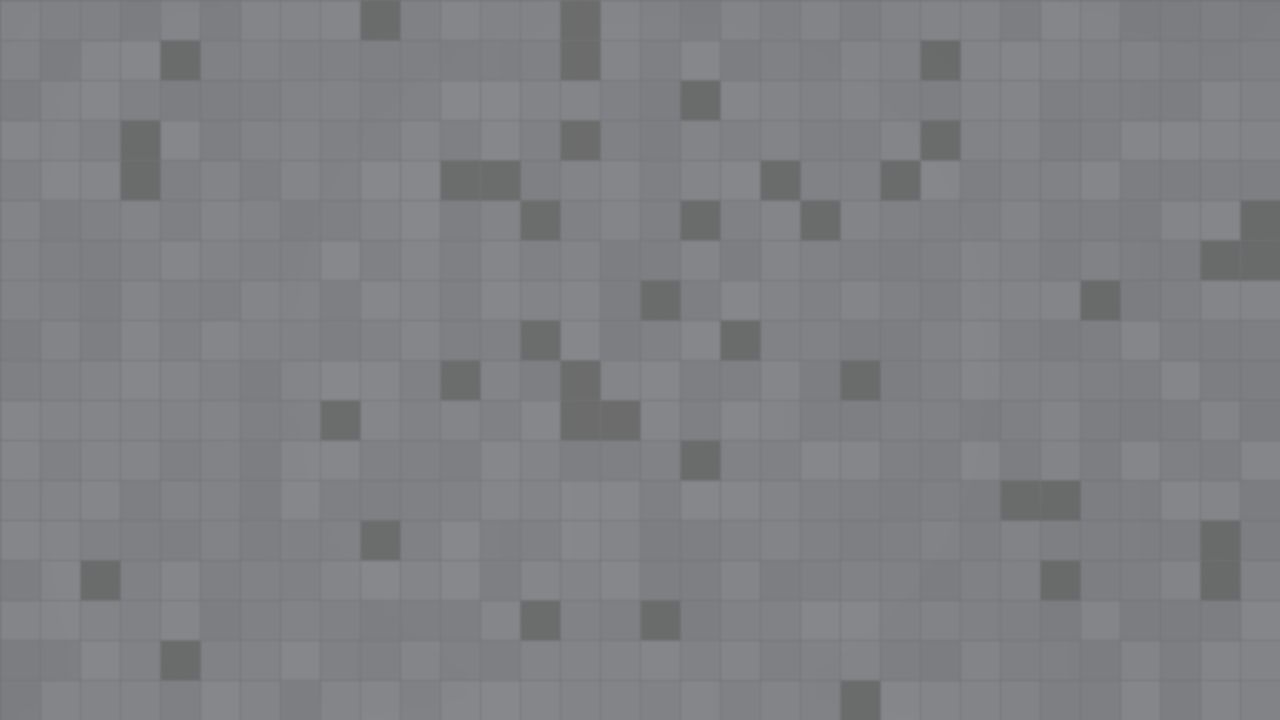
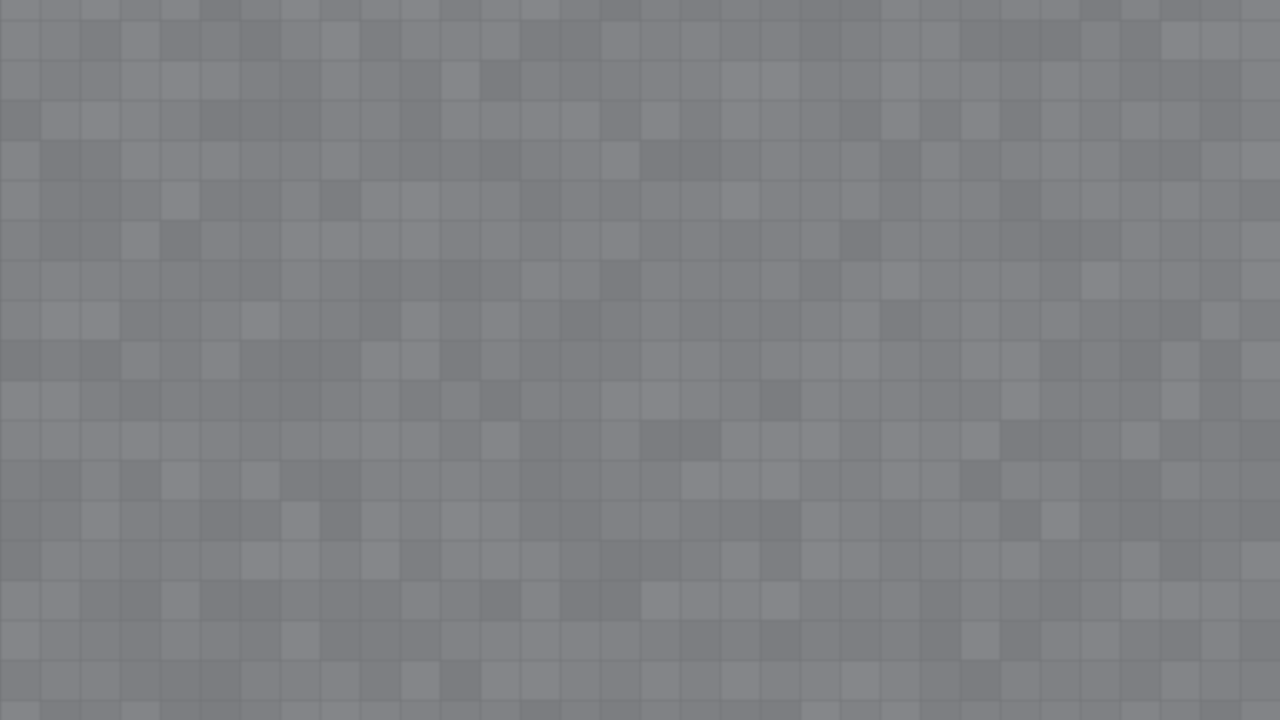
Fix classroom floor for real: v1 texture was a 1px black screen-door
8f0c993 claimed the bleed ring was repainted as linoleum with "zero near-black
pixels remain". It was not: 400,634 px (33% of table_classroom.png) were still
the original near-black void (15,11,9) in a 1-pixel lattice -- only the
even-x/even-y quarter of the ring was ever repainted.

Root cause (generator lived only in /tmp, so nothing in the repo showed it):
  - the "ensure nothing stays void-black" sweep iterated range(0,H,2)/
    range(0,W,2), leaving 3 of every 4 ring pixels untouched;
  - the per-tile tone variation used a stride-2 x loop.
Its verification sampled every 4th pixel in both axes -- the same even lattice
it had repainted -- and so reported 0 near-black pixels on an asset that was
one-third near-black. The vision model's "dark almost black" read was correct
and was overruled by aliased sampling.

Fix:
  - game/assets/generate_classroom_floor.py (new, committed): regenerates both
    classroom textures with full-coverage tiles; desk rect (160,120)-(1280,720)
    kept bit-exact; smooth +-14px wood->floor feather; CanvasModulate tint stays
    the single warmth knob.
  - verifies at FULL resolution (no subsampling) and asserts: 0 near-black ring
    pixels, 0 desk-interior pixels altered.
  - background_classroom.png regenerated from the same tile function, its grid
    phase-aligned to the table sprite for ultra-wide aspects.

Verified live (Xvfb :99, PENFIGHT_AUTOPLAY=1, 0 script errors):
[…]

diff --git a/game/assets/generate_classroom_floor.py b/game/assets/generate_classroom_floor.py
@@ -1,0 +1,179 @@
+#!/usr/bin/env python3
+"""Generate the top-down classroom floor assets for pen-fight.
+
+Outputs (both in game/assets/):
+  table_classroom.png (1440x840) — table.png with the near-black bleed ring
+      repainted as light-gray tiled linoleum, desk region preserved exactly.
+  background_classroom.png (1280x720) — matching floor for ultra-wide aspects
+      (sits BEHIND the table sprite; only visible when the window is wider than
+      the table sprite's aspect, so its tile grid is phase-aligned to the
+      table sprite's grid in viewport space).
+
+Origin geometry (measured from table.png, not guessed):
+  * table.png is 1440x840; the desk content occupies EXACTLY x160..1279,
+    y120..719 (1120x600 = the playfield). Everything else is bleed.
+  * The bleed is near-black (14,10,8) with a slight shadow ramp toward the desk.
+
+WHY THIS SCRIPT EXISTS: the first version of this repaint (2026-09-14) shipped a
+1-pixel black screen-door instead of a floor — two bugs, both invisible to the
+verification it used:
+  1. the "ensure nothing stays void-black" sweep iterated every 2nd pixel in BOTH
+     axes, so only 25% of the bleed was ever repainted, leaving a near-black
+     lattice at 3/4 of the ring's pixels;
+  2. the per-tile tone variation was applied with a stride-2 x loop.
+Both the repaint and its verification sampled on the same even lattice, so the
+check reported "0 near-black pixels" on an asset that was 33% near-black.
+
+RULES FOR ANYONE EDITING THIS:
+  * never verify a texture by sampling every Nth pixel — a 1px lattice aliases
+    perfectly against any even stride. Verify at full resolution (this script
+    does) and, for looks, use an AREA/box downscale, never point sampling.
+  * keep the desk rect exact; it is the physics playfield.
+
+Run:  /home/ubuntu/pen-fight/.asset-venv/bin/python generate_classroom_floor.py
+"""
+
+from __future__ import annotations
+
+import random
+import sys
+from pathlib import Path
+
+from PIL import Image, ImageDraw, ImageFilter
+
+ASSETS = Path(__file__).resolve().parent
+SRC = ASSETS / "table.png"
+DST_TABLE = ASSETS / "table_classroom.png"
+DST_BG = ASSETS / "background_classroom.png"
+
+# measured from table.png (see module docstring)
+DESK = (160, 120, 1280, 720)  # x0, y0, x1, y1  (x1/y1 exclusive)
+FEATHER = 14                  # px ramp wood -> floor at the desk rim
+
+# palette: neutral light gray, so the in-engine CanvasModulate tint stays the
+# single knob that decides the room's warmth
+BASE = (128, 130, 133)
+GROUT = (112, 114, 117)
+TILE = 40
+TONE = 5                      # per-tile lightness jitter, +-TONE
+SEED = 20260914
+
+
+def floor_tiles(w: int, h: int, origin: tuple[int, int] = (0, 0),
+                blur: float = 1.0) -> Image.Image:
+    """Full-coverage tiled linoleum: every pixel written, no stride tricks."""
+    rnd = random.Random(SEED)
+    im = Image.new("RGB", (w, h), BASE)
+    px = im.load()
+    ox, oy = origin
+    # per-tile tone variation over the WHOLE tile
+    for ty in range(-oy % TILE - TILE, h + TILE, TILE):
+        for tx in range(-ox % TILE - TILE, w + TILE, TILE):
+            shade = rnd.randint(-TONE, TONE)
+            if shade == 0:
+                continue
+            for yy in range(max(ty, 0), min(ty + TILE, h)):
+                for xx in range(max(tx, 0), min(tx + TILE, w)):
+                    r, g, b = px[xx, yy]
+                    px[xx, yy] = (min(255, r + shade), min(255, g + shade),
+                                  min(255, b + shade))
+    draw = ImageDraw.Draw(im)
+    for x in range(-ox % TILE, w, TILE):
+        draw.line([(x, 0), (x, h - 1)], fill=GROUT, width=1)
+    for y in range(-oy % TILE, h, TILE):
+        draw.line([(0, y), (w - 1, y)], fill=GROUT, width=1)
+    if blur:
+        im = im.filter(ImageFilter.GaussianBlur(blur))
+    return im
+
+
+def build_table() -> Image.Image:
+    src = Image.open(SRC).convert("RGB")
+    w, h = src.size
+    assert (w, h) == (1440, 840), f"unexpected table.png size {w}x{h}"
+    out = src.copy()
+    floor = floor_tiles(w, h, origin=(0, 0), blur=1.0)
+    fpx, opx = floor.load(), out.load()
+
+    x0, y0, x1, y1 = DESK
+
+    def signed_dist(x: int, y: int) -> int:
+        """+ve inside the desk rect, -ve outside, 0 at the rim."""
+        if x0 <= x < x1 and y0 <= y < y1:
+            return min(x - x0, x1 - 1 - x, y - y0, y1 - 1 - y)
+        dx = max(x0 - x, 0, x - (x1 - 1))
+        dy = max(y0 - y, 0, y - (y1 - 1))
+        return -max(dx, dy)
+
+    for y in range(h):
+        for x in range(w):
+            d = signed_dist(x, y)
+            if d >= FEATHER:
+                continue                          # deep wood: untouched
+            if d <= -FEATHER:
+                opx[x, y] = fpx[x, y]             # ring: floor, every pixel
+                continue
+            t = (d + FEATHER) / (2 * FEATHER)     # 0 = pure floor, 1 = pure wood
+            r, g, b = opx[x, y]
+            fr, fg, fb = fpx[x, y]
+            opx[x, y] = (int(r * t + fr * (1 - t)),
+                         int(g * t + fg * (1 - t)),
+                         int(b * t + fb * (1 - t)))
+    return out
+
+
+def verify_table(out: Image.Image, src: Image.Image) -> None:
+    w, h = out.size
+    x0, y0, x1, y1 = DESK
+    opx, spx = out.load(), src.load()
+    dark = 0
+    lo, hi, tot, n = 255, 0, 0, 0
+    worst_desk = 0
+    for y in range(h):
+        for x in range(w):
+            r, g, b = opx[x, y]
+            if x0 <= x < x1 and y0 <= y < y1:
+                edge = min(x - x0, x1 - 1 - x, y - y0, y1 - 1 - y)
+                if edge >= FEATHER and (r, g, b) != spx[x, y]:
+                    worst_desk += 1
+                continue
+            v = (r + g + b) // 3
+            tot += v
+            n += 1
+            lo = min(lo, v)
+            hi = max(hi, v)
+            if r + g + b < 90:
+                dark += 1
+    print(f"  ring: {n} px  brightness min {lo} mean {tot/n:.1f} max {hi}")
+    print(f"  ring near-black (sum<90): {dark}")
+    print(f"  desk interior pixels altered: {worst_desk}")
+    assert dark == 0, "ring still contains near-black pixels"
+    assert worst_desk == 0, "desk interior was modified"
+    avg = sum(opx[x, y][0] for y in range(0, h, 16) for x in range(0, w, 16)) / ((h // 16 + 1) * (w // 16 + 1))
+    print(f"  full-frame mean should be >= 3 (not a black void): {avg:.1f}")
+
+
+def main() -> int:
+    print(f"building {DST_TABLE.name} ...")
+    src = Image.open(SRC).convert("RGB")
+    out = build_table()
+    verify_table(out, src)
+    out.save(DST_TABLE)
+    out.reduce(4).save("/tmp/pf_floor_preview.png")
+
+    print(f"building {DST_BG.name} ...")
+    # table sprite top-left sits at (-80,-60) in the 1280x720 viewport, so align
+    # the bg tile grid to y % TILE == 20 (x already aligns: 80 % 40 == 0)
+    bg = floor_tiles(1280, 720, origin=(0, 20), blur=1.2)
+    bgp = bg.load()
+    dark = sum(1 for y in range(720) for x in range(1280)
+               if sum(bgp[x, y]) < 90)
+    print(f"  bg near-black px: {dark}")
+    assert dark == 0
+    bg.save(DST_BG)
+    print("done")
+    return 0
+
+
+if __name__ == "__main__":
+    sys.exit(main())

diff --git a/docs/handoff-2026-09-14.md b/docs/handoff-2026-09-14.md
@@ -8,6 +8,40 @@
 
 ---
 
+## 0. CORRECTION — the classroom-floor fix below never actually landed
+
+Written after the fact. **Read this before trusting §1's classroom-floor claims.**
+
+`8f0c993` claimed the bleed ring was repainted as linoleum with "zero near-black
+pixels remain". It was not. Measured on the shipped asset: **400,634 px (33% of
+`table_classroom.png`) were still the original near-black void** `(15,11,9)` in a
+1-pixel lattice — only the even-x/even-y quarter of the ring was ever repainted.
+
+**Root cause** (old generator, at the time only in `/tmp/gen_table_classroom.py`):
+1. the "ensure nothing stays void-black" sweep iterated `range(0,H,2)` /
+   `range(0,W,2)`, so 3 of every 4 ring pixels were never touched;
+2. the per-tile tone variation used a stride-2 x loop.
+Its *verification* sampled `range(0,H,4)`/`range(0,W,4)` — the same even lattice —
+so it counted 0 near-black pixels on an asset that was one-third near-black.
+
+**The vision model was right and got overruled.** The "dark almost black" floor it
+reported was the black lattice; the "pixel truth is the object evidence" rebuttal
+sampled the 25% of pixels that had been repainted. Earlier frames
+(`/tmp/pf_classroom_floor.png`) were affected identically, so every classroom-floor
+verification in this project to date was made on that lattice.
+
+**Fix:** `game/assets/generate_classroom_floor.py` (now committed — the bug survived
+only because the generator lived in `/tmp`) regenerates both classroom textures:
+full-coverage tiles, desk rect `(160,120)-(1280,720)` bit-exact, ±14px feather.
+Verified at **full resolution** (no subsampling): ring 537,600 px, 0 near-black,
+0 desk-interior pixels altered. Render truth: void-colour pixels 105,825 → **0**,
+ring-band mean brightness 32.5 → **103.9**, desk unchanged.
+
+**Lesson for the next session (applies to every texture/visual claim):** a 1-pixel
+lattice aliases perfectly against any even sampling stride. Never verify a texture
+or a render by sampling every Nth pixel; scan every pixel (or use an area/box
+downscale for looks — never point sampling).
+
 ## 1. Game state
 
 Turn-based 2-player "knock the opponent's pen off the table" physics game, top-down classroom POV, Android target. Phase 1 (headless-feasible vertical slice + acceptance proxy) is complete. All 7 headless suites pass; live Xvfb runs at 0 script errors.
